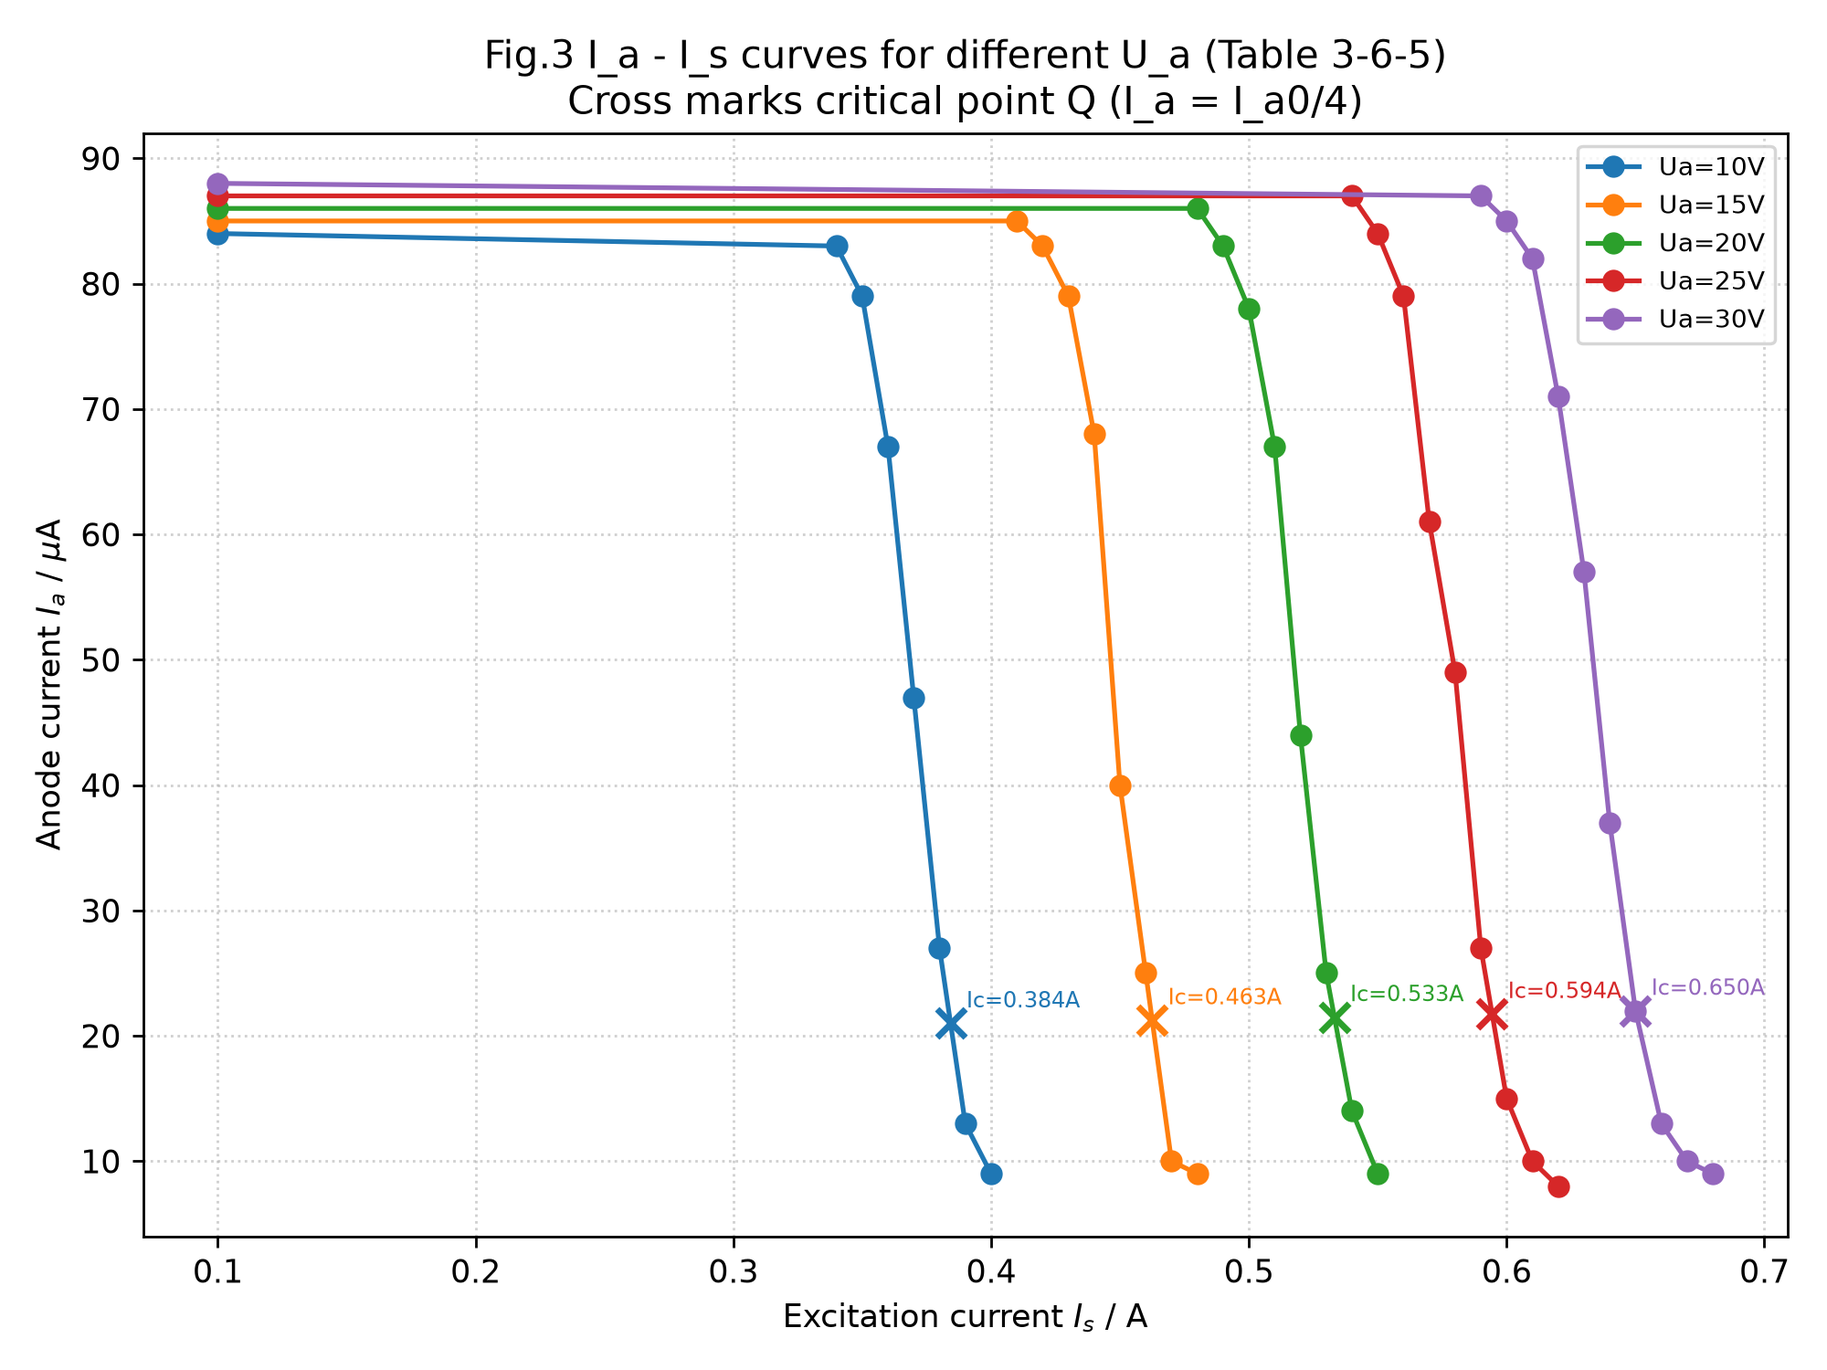
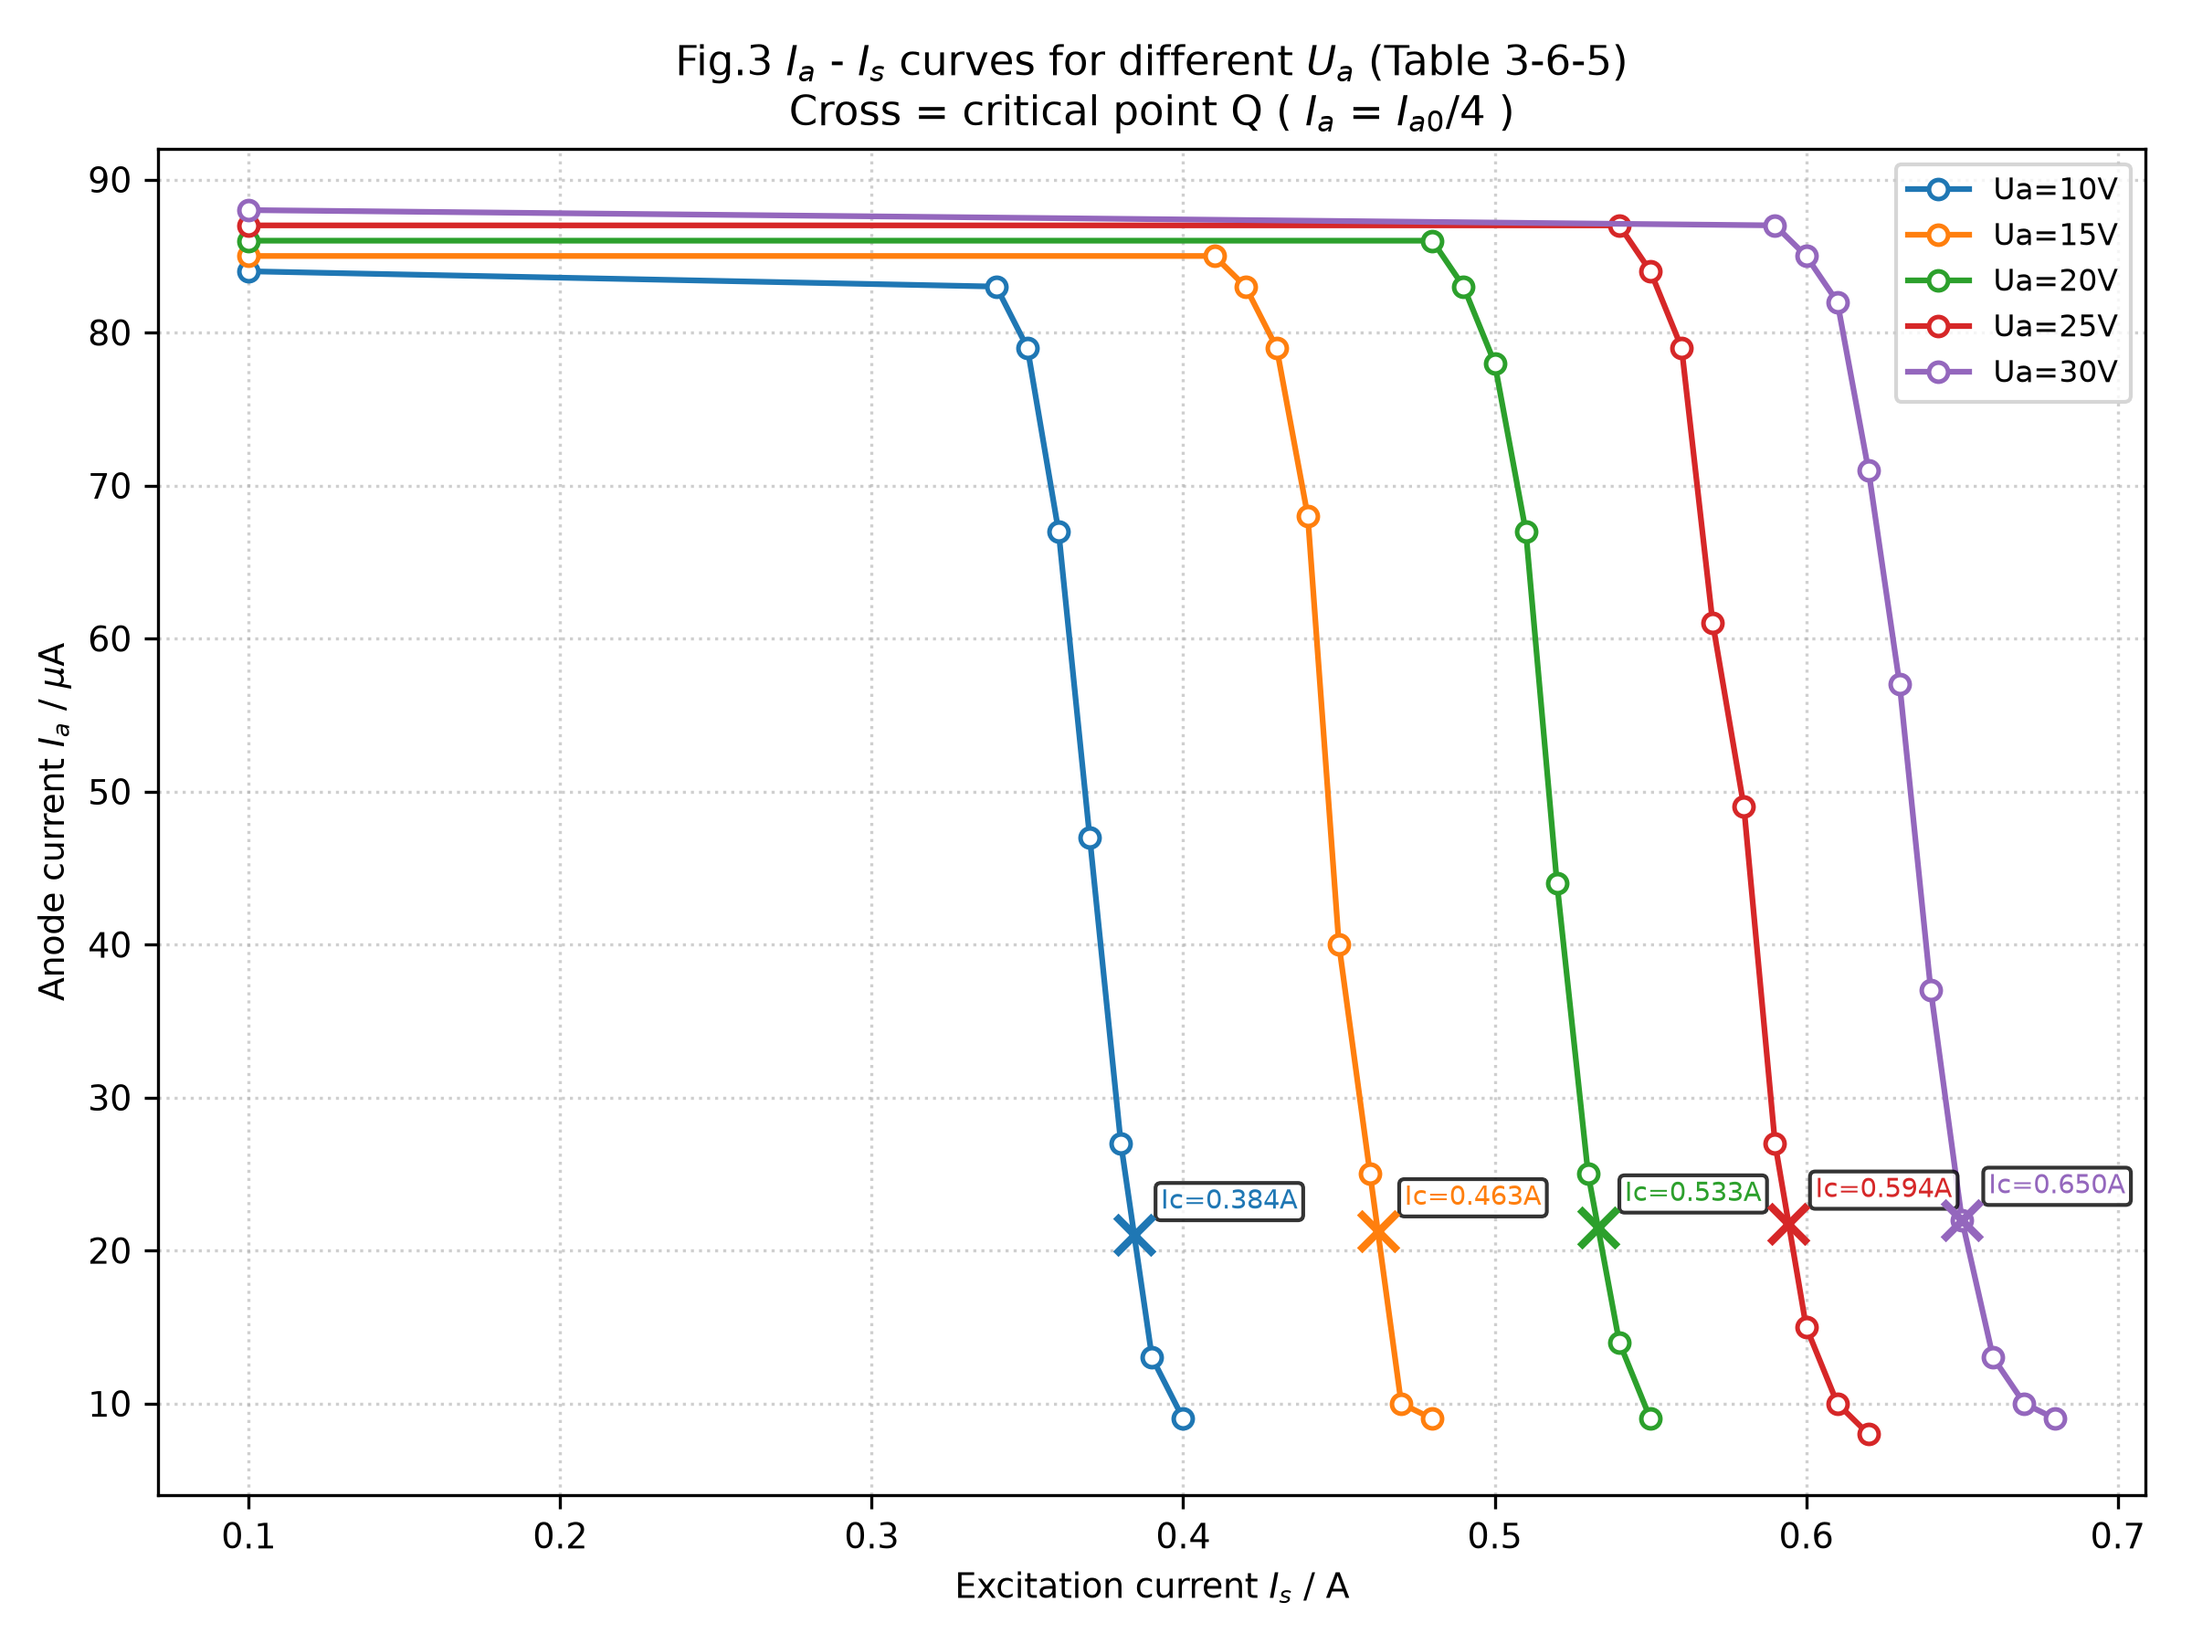
Python重绘B305全部4张图：优化样式与标注

diff --git a/scripts/plot_B305_all.py b/scripts/plot_B305_all.py
@@ -1,0 +1,186 @@
+#!/usr/bin/env python3
+# -*- coding: utf-8 -*-
+"""
+B305 金属电子逸出功与荷质比 - 全部作图脚本
+按《大学物理实验（第三版）》实验3.6 及板书要求
+生成：Fig1 lgIa-sqrtUa (表3), Fig2 Richardson (表4), Fig3 Ia-Is (表5), Fig4 Ua-Ic2
+数据来自教师签字的表3-6-2、表3-6-5原始记录
+"""
+import math
+import matplotlib
+matplotlib.use('Agg')
+import matplotlib.pyplot as plt
+plt.rcParams['font.sans-serif'] = ['DejaVu Sans']
+plt.rcParams['axes.unicode_minus'] = False
+plt.rcParams['font.size'] = 9
+
+# ---------- 原始数据 ----------
+Ua_vals = [16.0,25.0,36.0,49.0,64.0,81.0,100.0]
+sqrtUa = [4.0,5.0,6.0,7.0,8.0,9.0,10.0]
+If_vals = [0.600,0.625,0.650,0.675,0.700,0.725,0.750]
+T_vals = [1.88,1.92,1.96,2.00,2.04,2.08,2.12]  # 10^3 K
+Ia_data = {
+ 0.600: [8,8,9,9,9,8,10],
+ 0.625: [10,11,12,12,11,12,13],
+ 0.650: [15,15,16,16,16,16,17],
+ 0.675: [23,23,24,24,25,25,26],
+ 0.700: [33,34,36,36,37,37,39],
+ 0.725: [55,55,58,58,60,60,63],
+ 0.750: [82,91,94,95,97,98,102],
+}
+mag_data = {
+ 10: [(0.100,84),(0.340,83),(0.350,79),(0.360,67),(0.370,47),(0.380,27),(0.390,13),(0.400,9)],
+ 15: [(0.100,85),(0.410,85),(0.420,83),(0.430,79),(0.440,68),(0.450,40),(0.460,25),(0.470,10),(0.480,9)],
+ 20: [(0.100,86),(0.480,86),(0.490,83),(0.500,78),(0.510,67),(0.520,44),(0.530,25),(0.540,14),(0.550,9)],
+ 25: [(0.100,87),(0.540,87),(0.550,84),(0.560,79),(0.570,61),(0.580,49),(0.590,27),(0.600,15),(0.610,10),(0.620,8)],
+ 30: [(0.100,88),(0.590,87),(0.600,85),(0.610,82),(0.620,71),(0.630,57),(0.640,37),(0.650,22),(0.660,13),(0.670,10),(0.680,9)],
+}
+
+def linear_fit(x,y):
+    n=len(x)
+    sx=sum(x); sy=sum(y)
+    sxx=sum(v*v for v in x); sxy=sum(x[i]*y[i] for i in range(n))
+    denom=n*sxx - sx*sx
+    b=(n*sxy - sx*sy)/denom if denom!=0 else 0
+    a=(sy - b*sx)/n
+    # R2
+    y_mean=sy/n
+    ss_tot=sum((yi-y_mean)**2 for yi in y)
+    ss_res=sum((y[i]-(a+b*x[i]))**2 for i in range(n))
+    r2=1-ss_res/ss_tot if ss_tot!=0 else 0
+    return a,b,r2
+
+# ---------- Fig1: lg Ia - sqrtUa ----------
+print("Generating Fig1...")
+colors = plt.cm.tab10.colors
+plt.figure(figsize=(8,6))
+lgI_zero = []
+for idx, If in enumerate(If_vals):
+    Ia = Ia_data[If]
+    lgIa = [math.log10(v*1e-6) for v in Ia]
+    a,b,r2 = linear_fit(sqrtUa, lgIa)
+    lgI_zero.append(a)
+    plt.scatter(sqrtUa, lgIa, color=colors[idx%10], s=35, zorder=5)
+    x_fit = [4,10]
+    y_fit = [a+b*x for x in x_fit]
+    plt.plot(x_fit, y_fit, color=colors[idx%10], linestyle='--', linewidth=1.2, label=f'If={If:.3f}A T={T_vals[idx]:.2f}kK  lgI0={a:.3f}')
+    # 标注截距点
+    plt.scatter([0], [a], color=colors[idx%10], marker='|', s=120, linewidths=1.5)
+plt.xlabel(r'$\sqrt{U_a}$ / V$^{1/2}$')
+plt.ylabel(r'lg $I_a$ / lg(A)')
+plt.title('Fig.1 lg $I_a$ - $\sqrt{U_a}$ (Table 3-6-3)\nSeven filament temps, intercept at $\sqrt{U_a}=0$ gives lg I (zero-field)')
+plt.grid(True, linestyle=':', alpha=0.6)
+plt.legend(fontsize=6.5, ncol=2, loc='lower right', framealpha=0.9)
+plt.xlim(0,10.5)
+plt.tight_layout()
+plt.savefig('大物实验预习/assets/B305_plot1_lgIa_sqrtUa.png', dpi=300)
+plt.savefig('/tmp/B305_plot1_lgIa_sqrtUa.png', dpi=300)
+plt.close()
+print("Fig1 saved, intercepts:", ["{:.4f}".format(v) for v in lgI_zero])
+
+# ---------- Fig2: Richardson ----------
+print("Generating Fig2...")
+T_K = [t*1e3 for t in T_vals]
+invT = [1/t for t in T_K]
+lg_I_T2 = [lgI_zero[i] -2*math.log10(T_K[i]) for i in range(len(T_K))]
+a2,b2,r2 = linear_fit(invT, lg_I_T2)
+k=1.381e-23; e=1.602e-19
+phi = -b2*2.303*k/e
+print(f"Richardson fit: lg(I/T2) = {a2:.4f} + {b2:.1f}*(1/T), R2={r2:.4f}, phi={phi:.3f}eV")
+plt.figure(figsize=(7,5.2))
+plt.scatter([x*1e4 for x in invT], lg_I_T2, color='red', s=60, zorder=5, edgecolors='k', linewidths=0.5)
+x_fit = [min(invT), max(invT)]
+y_fit = [a2 + b2*x for x in x_fit]
+plt.plot([x*1e4 for x in x_fit], y_fit, color='blue', linestyle='--', linewidth=1.5, label=f'Fit: lg(I/T2) = {a2:.2f} {b2:+.0f}*(1/T)\nR2={r2:.4f}  Slope={b2:.0f}K')
+for i in range(len(T_vals)):
+    plt.annotate(f'{T_vals[i]:.2f}kK', (invT[i]*1e4, lg_I_T2[i]), xytext=(6,6), textcoords="offset points", fontsize=7,
+                 bbox=dict(boxstyle="round,pad=0.2", fc="yellow", alpha=0.3))
+plt.xlabel(r'1/T (10$^{-4}$ K$^{-1}$)')
+plt.ylabel(r'lg(I/T$^2$) / lg(A/K$^2$)')
+plt.title('Fig.2 Richardson plot lg(I/T2) vs 1/T (Table 3-6-4)\nSlope = -eφ/(2.303k) → φ = {:.2f} eV'.format(phi))
+plt.grid(True, linestyle=':', alpha=0.6)
+plt.legend(fontsize=8, loc='upper right')
+plt.tight_layout()
+plt.savefig('大物实验预习/assets/B305_plot2_Richardson.png', dpi=300)
+plt.savefig('/tmp/B305_plot2_Richardson.png', dpi=300)
+plt.close()
+
+# ---------- Fig3: Ia - Is ----------
+print("Generating Fig3...")
+plt.figure(figsize=(8,6))
+for idx, Ua in enumerate(sorted(mag_data)):
+    lst = sorted(mag_data[Ua])
+    xs = [p[0] for p in lst]
+    ys = [p[1] for p in lst]
+    plt.plot(xs, ys, marker='o', markersize=5, markerfacecolor='white', markeredgecolor=colors[idx%10], markeredgewidth=1.2,
+             color=colors[idx%10], linewidth=1.5, label=f'Ua={Ua}V')
+    max_Ia = max(ys)
+    target = max_Ia/4
+    for i in range(len(lst)-1):
+        Is1,Ia1 = lst[i]
+        Is2,Ia2 = lst[i+1]
+        if Ia1 >= target >= Ia2:
+            Is_c = Is1 + (target - Ia1)*(Is2-Is1)/(Ia2-Ia1)
+            plt.scatter([Is_c], [target], color=colors[idx%10], s=100, marker='x', linewidths=2, zorder=6)
+            plt.annotate(f'Ic={Is_c:.3f}A', (Is_c, target), xytext=(7,7), textcoords="offset points", fontsize=7, color=colors[idx%10],
+                         bbox=dict(boxstyle="round,pad=0.2", fc="white", alpha=0.8))
+            break
+plt.xlabel(r'Excitation current $I_s$ / A')
+plt.ylabel(r'Anode current $I_a$ / $\mu$A')
+plt.title('Fig.3 $I_a$ - $I_s$ curves for different $U_a$ (Table 3-6-5)\nCross = critical point Q ( $I_a$ = $I_{a0}$/4 )')
+plt.grid(True, linestyle=':', alpha=0.6)
+plt.legend(fontsize=8, loc='upper right')
+plt.tight_layout()
+plt.savefig('大物实验预习/assets/B305_plot3_Ia_Is.png', dpi=300)
+plt.savefig('/tmp/B305_plot3_Ia_Is.png', dpi=300)
+plt.close()
+
+# ---------- Fig4: Ua - Ic2 ----------
+print("Generating Fig4...")
+Ics = []
+Uas = sorted(mag_data.keys())
+for Ua in Uas:
+    lst = mag_data[Ua]
+    max_Ia = max(v for _,v in lst)
+    target = max_Ia/4
+    lst_sorted = sorted(lst)
+    Ic = None
+    for i in range(len(lst_sorted)-1):
+        Is1,Ia1 = lst_sorted[i]
+        Is2,Ia2 = lst_sorted[i+1]
+        if Ia1 >= target >= Ia2:
+            Ic = Is1 + (target - Ia1)*(Is2-Is1)/(Ia2-Ia1)
+            break
+    Ics.append(Ic)
+Ic2 = [x**2 for x in Ics]
+aM,bM,r2 = linear_fit(Ic2, Uas)
+Kp=1.445e-2; a_val=4.0e-3
+K=bM
+e_m = 8*K/(a_val**2 * Kp**2)
+e_m0 = 8*(sum(u*c2 for u,c2 in zip(Uas,Ic2))/sum(c2*c2 for c2 in Ic2))/(a_val**2*Kp**2)
+print(f"Ua-Ic2 fit: Ua = {aM:.3f} + {bM:.2f}*Ic2, R2={r2:.5f}, e/m={e_m:.3e} (free), {e_m0:.3e} (through origin)")
+
+plt.figure(figsize=(7,5.2))
+plt.scatter(Ic2, Uas, color='darkgreen', s=80, zorder=5, edgecolors='k', linewidths=0.5)
+x_fit = [min(Ic2)*0.9, max(Ic2)*1.05]
+y_fit = [aM + bM*x for x in x_fit]
+plt.plot(x_fit, y_fit, color='red', linestyle='--', linewidth=1.5, label=f'Fit: Ua = {aM:.2f} + {bM:.1f}·Ic²\nR²={r2:.4f}  K={bM:.1f} V/A²')
+# 强制过原点
+K0 = sum(u*c2 for u,c2 in zip(Uas,Ic2))/sum(c2*c2 for c2 in Ic2)
+y0_fit = [K0*x for x in x_fit]
+plt.plot(x_fit, y0_fit, color='orange', linestyle=':', linewidth=1.2, label=f'Through origin K0={K0:.1f}')
+for i in range(len(Uas)):
+    plt.annotate(f'{Uas[i]}V\nIc²={Ic2[i]:.3f}', (Ic2[i], Uas[i]), xytext=(8,5), textcoords="offset points", fontsize=7,
+                 bbox=dict(boxstyle="round,pad=0.2", fc="lightyellow", alpha=0.7))
+plt.xlabel(r'$I_c^2$ / A$^2$')
+plt.ylabel(r'Anode voltage $U_a$ / V')
+plt.title('Fig.4 $U_a$ - $I_c^2$ linear relation (Table 3-6-5)\n$K$ = slope → e/m = 8K/(a²K\'²) = {:.2e} C/kg'.format(e_m))
+plt.grid(True, linestyle=':', alpha=0.6)
+plt.legend(fontsize=7.5, loc='upper left')
+plt.tight_layout()
+plt.savefig('大物实验预习/assets/B305_plot4_Ua_Ic2.png', dpi=300)
+plt.savefig('/tmp/B305_plot4_Ua_Ic2.png', dpi=300)
+plt.close()
+
+print("All 4 plots generated successfully!")
+print(f"Results: phi={phi:.3f} eV, e/m={e_m:.3e} C/kg (1.76e11 error {abs(e_m-1.76e11)/1.76e11*100:.2f}%)")
